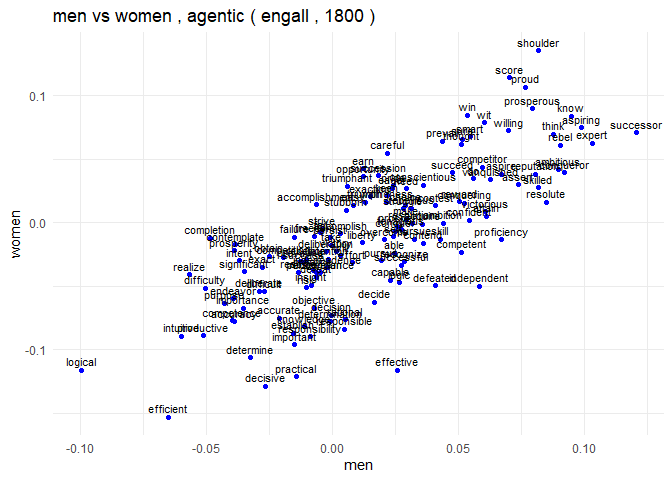
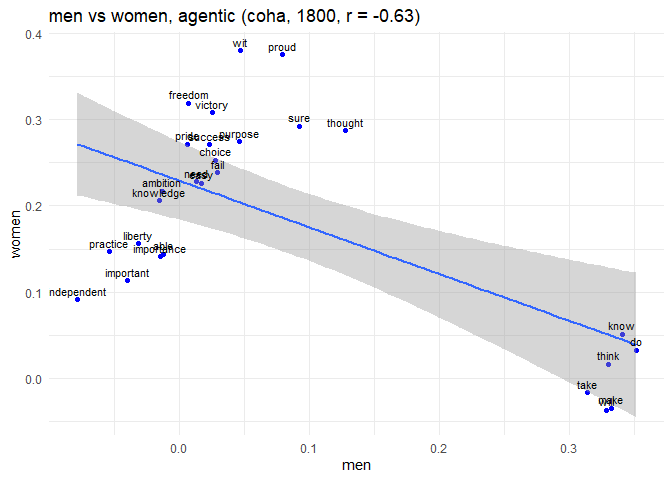
available words analysis

diff --git a/histembeddingsGender.md b/histembeddingsGender.md
@@ -8,40 +8,48 @@ December 3, 2024
 ## Set WD to word stimuli
 setwd("wordstim")
 
-# Specific group examples and new lists
+# Function to read and process lists
+read_list <- function(file, col_name) {
+  list_data <- read.delim(file, header = FALSE)
+  colnames(list_data) <- col_name
+  return(as.vector(list_data[[col_name]]))
+}
+
+# Specific groups (men, women)
 groupwrds <- read.csv("groupstimlists.csv", header = FALSE)
 groupwrds <- as.data.frame(t(groupwrds))
 colnames(groupwrds) <- as.character(groupwrds[1, ])
 groupwrds <- groupwrds[-1, ]
 
-## List of traits
-agenticlist <- read.delim("agentic.txt", header = FALSE)
-colnames(agenticlist) <- "agentic"
-agentic <- as.vector(agenticlist$agentic)
+# Read lists using the function
+agentic <- read_list("agentic.txt", "agentic")
+communal <- read_list("communal.txt", "communal")
+trait <- read_list("traitlist.txt", "trait")
+job <- read_list("joblist.txt", "job")
 
-## List of jobs
-communallist <- read.delim("communal.txt", header = FALSE)
-colnames(communallist) <- "communal"
-communal <- as.vector(communallist$communal)
-
-## List of traits
-traitlist <- read.delim("traitlist.txt", header = FALSE)
-colnames(traitlist) <- "trait"
-trait <- as.vector(traitlist$trait)
-
-## List of traits
-joblist <- read.delim("joblist.txt", header = FALSE)
-colnames(joblist) <- "job"
-job <- as.vector(joblist$job)
+print(head(agentic))
 ```
+
+    ## [1] "able"           "accomplish"     "accomplishment" "accuracy"      
+    ## [5] "accurate"       "achieve"
 
 ``` r
-plot_one_decade(get_decade("men", "women", "agentic", "engall", 1800))
+print(groupwrds$men)
 ```
 
-    ## Warning: Removed 57 rows containing missing values (`geom_point()`).
+    ##  [1] "men"         "man"         "male"        "males"       "masculine"  
+    ##  [6] "masculinity" "he"          "him"         "his"         "himself"    
+    ## [11] "mr"          "mister"      "boy"         "boys"        "guy"        
+    ## [16] "guys"        "fella"       "fellas"      "gent"        "gents"      
+    ## [21] "sir"         "sirs"        "bloke"       "blokes"      "gentleman"  
+    ## [26] "gentlemen"   "lad"         "lads"        "prince"      "princes"    
+    ## [31] "manly"       "king"        "kings"       ""            ""
 
-    ## Warning: Removed 57 rows containing missing values (`geom_text()`).
+``` r
+plot_one_decade(get_decade("men", "women", "agentic", "coha", 1800))
+```
+
+    ## `geom_smooth()` using formula = 'y ~ x'
 
 ![](histembeddingsGender_files/figure-gfm/plottingDecade-1.png)<!-- -->
 
@@ -49,9 +57,7 @@ plot_one_decade(get_decade("men", "women", "agentic", "engall", 1800))
 plot_one_decade(get_decade("men", "women", "agentic", "engall", 1990))
 ```
 
-    ## Warning: Removed 1 rows containing missing values (`geom_point()`).
-
-    ## Warning: Removed 1 rows containing missing values (`geom_text()`).
+    ## `geom_smooth()` using formula = 'y ~ x'
 
 ![](histembeddingsGender_files/figure-gfm/plottingDecade-2.png)<!-- -->
 
@@ -59,15 +65,15 @@ plot_one_decade(get_decade("men", "women", "agentic", "engall", 1990))
 plot_one_decade(get_decade("men", "women", "communal", "engall", 1800))
 ```
 
-    ## Warning: Removed 93 rows containing missing values (`geom_point()`).
-
-    ## Warning: Removed 93 rows containing missing values (`geom_text()`).
+    ## `geom_smooth()` using formula = 'y ~ x'
 
 ![](histembeddingsGender_files/figure-gfm/plottingDecade-3.png)<!-- -->
 
 ``` r
 plot_one_decade(get_decade("men", "women", "communal", "engall", 1990))
 ```
+
+    ## `geom_smooth()` using formula = 'y ~ x'
 
 ![](histembeddingsGender_files/figure-gfm/plottingDecade-4.png)<!-- -->
 
@@ -326,48 +332,69 @@ colnames(results_df) <- c(
 print(results_df)
 ```
 
-    ##    year agentic_coha_men agentic_coha_women agentic_engall_men agentic_engall_women communal_coha_men
-    ## 1  1800      0.084520244       0.1834998786        0.017776823         -0.010094393        0.06831522
-    ## 2  1810      0.036986220       0.0403678799        0.013167537         -0.003991037        0.07094547
-    ## 3  1820      0.017284895      -0.0044068025        0.004411563         -0.013642225        0.04259423
-    ## 4  1830      0.001474853       0.0003878655        0.008945463         -0.010915581        0.02332175
-    ## 5  1840      0.018157545      -0.0073481485        0.003948094         -0.018247837        0.03831833
-    ## 6  1850      0.001449928      -0.0022702158        0.011462237         -0.006627975        0.02434804
-    ## 7  1860      0.022906022      -0.0126401864        0.012631418         -0.012494853        0.04691636
-    ## 8  1870      0.023492385      -0.0030534677        0.014424021         -0.010645491        0.04825870
-    ## 9  1880      0.029276455      -0.0018925372        0.015541094         -0.009744451        0.05070012
-    ## 10 1890      0.045164065       0.0407958010        0.011824326         -0.006846959        0.06307972
-    ## 11 1900      0.047460166       0.0449100188        0.016932356         -0.010041242        0.06972313
-    ## 12 1910      0.048764028       0.0311070938        0.011144014         -0.006272388        0.07639868
-    ## 13 1920      0.050883157       0.0409740162        0.011922415         -0.011133050        0.07874893
-    ## 14 1930      0.055722354       0.0549758360        0.010657838         -0.010304977        0.07841097
-    ## 15 1940      0.041074543       0.0371632802        0.016404601         -0.008795346        0.06771565
-    ## 16 1950      0.040904315       0.0533711343        0.016927671         -0.004900174        0.06910422
-    ## 17 1960      0.069172537       0.0595801712        0.020153685         -0.003272957        0.08933305
-    ## 18 1970      0.077888404       0.0734545124        0.024377910          0.002779682        0.09297614
-    ## 19 1980      0.065539308       0.0927835596        0.022926163          0.004748982        0.09342222
-    ## 20 1990      0.113000601       0.0928455471        0.023448633          0.002629157        0.12533895
-    ##    communal_coha_women communal_engall_men communal_engall_women
-    ## 1           0.26509634          0.04729696            0.05682278
-    ## 2           0.09461830          0.02876524            0.03346980
-    ## 3           0.04840895          0.02134274            0.02548101
-    ## 4           0.04915821          0.02214370            0.02463863
-    ## 5           0.04037932          0.02298446            0.02271996
-    ## 6           0.04714489          0.02781557            0.02731800
-    ## 7           0.03207279          0.02489244            0.02648915
-    ## 8           0.04226237          0.02409834            0.02796862
-    ## 9           0.04076931          0.02816929            0.02923253
-    ## 10          0.08085304          0.02495898            0.02713827
-    ## 11          0.07941852          0.03273924            0.02679150
-    ## 12          0.06525074          0.02976279            0.02946129
-    ## 13          0.08073349          0.03008241            0.02647452
-    ## 14          0.08899034          0.03188849            0.02503512
-    ## 15          0.07719392          0.03777427            0.03147545
-    ## 16          0.09609614          0.03789944            0.03419810
-    ## 17          0.09344271          0.04470092            0.03630398
-    ## 18          0.09949782          0.04489457            0.03850274
-    ## 19          0.13549703          0.04334782            0.03667643
-    ## 20          0.11913105          0.03927364            0.03128763
+    ##    year agentic_coha_men agentic_coha_women agentic_engall_men
+    ## 1  1800      0.084520244       0.1834998786        0.017776823
+    ## 2  1810      0.036986220       0.0403678799        0.013167537
+    ## 3  1820      0.017284895      -0.0044068025        0.004411563
+    ## 4  1830      0.001474853       0.0003878655        0.008945463
+    ## 5  1840      0.018157545      -0.0073481485        0.003948094
+    ## 6  1850      0.001449928      -0.0022702158        0.011462237
+    ## 7  1860      0.022906022      -0.0126401864        0.012631418
+    ## 8  1870      0.023492385      -0.0030534677        0.014424021
+    ## 9  1880      0.029276455      -0.0018925372        0.015541094
+    ## 10 1890      0.045164065       0.0407958010        0.011824326
+    ## 11 1900      0.047460166       0.0449100188        0.016932356
+    ## 12 1910      0.048764028       0.0311070938        0.011144014
+    ## 13 1920      0.050883157       0.0409740162        0.011922415
+    ## 14 1930      0.055722354       0.0549758360        0.010657838
+    ## 15 1940      0.041074543       0.0371632802        0.016404601
+    ## 16 1950      0.040904315       0.0533711343        0.016927671
+    ## 17 1960      0.069172537       0.0595801712        0.020153685
+    ## 18 1970      0.077888404       0.0734545124        0.024377910
+    ## 19 1980      0.065539308       0.0927835596        0.022926163
+    ## 20 1990      0.113000601       0.0928455471        0.023448633
+    ##    agentic_engall_women communal_coha_men communal_coha_women
+    ## 1          -0.010094393        0.06831522          0.26509634
+    ## 2          -0.003991037        0.07094547          0.09461830
+    ## 3          -0.013642225        0.04259423          0.04840895
+    ## 4          -0.010915581        0.02332175          0.04915821
+    ## 5          -0.018247837        0.03831833          0.04037932
+    ## 6          -0.006627975        0.02434804          0.04714489
+    ## 7          -0.012494853        0.04691636          0.03207279
+    ## 8          -0.010645491        0.04825870          0.04226237
+    ## 9          -0.009744451        0.05070012          0.04076931
+    ## 10         -0.006846959        0.06307972          0.08085304
+    ## 11         -0.010041242        0.06972313          0.07941852
+    ## 12         -0.006272388        0.07639868          0.06525074
+    ## 13         -0.011133050        0.07874893          0.08073349
+    ## 14         -0.010304977        0.07841097          0.08899034
+    ## 15         -0.008795346        0.06771565          0.07719392
+    ## 16         -0.004900174        0.06910422          0.09609614
+    ## 17         -0.003272957        0.08933305          0.09344271
+    ## 18          0.002779682        0.09297614          0.09949782
+    ## 19          0.004748982        0.09342222          0.13549703
+    ## 20          0.002629157        0.12533895          0.11913105
+    ##    communal_engall_men communal_engall_women
+    ## 1           0.04729696            0.05682278
+    ## 2           0.02876524            0.03346980
+    ## 3           0.02134274            0.02548101
+    ## 4           0.02214370            0.02463863
+    ## 5           0.02298446            0.02271996
+    ## 6           0.02781557            0.02731800
+    ## 7           0.02489244            0.02648915
+    ## 8           0.02409834            0.02796862
+    ## 9           0.02816929            0.02923253
+    ## 10          0.02495898            0.02713827
+    ## 11          0.03273924            0.02679150
+    ## 12          0.02976279            0.02946129
+    ## 13          0.03008241            0.02647452
+    ## 14          0.03188849            0.02503512
+    ## 15          0.03777427            0.03147545
+    ## 16          0.03789944            0.03419810
+    ## 17          0.04470092            0.03630398
+    ## 18          0.04489457            0.03850274
+    ## 19          0.04334782            0.03667643
+    ## 20          0.03927364            0.03128763
 
 ``` r
 ggplot(results_df, aes(x = year)) +
@@ -424,6 +451,10 @@ plot_multiple_ts(human_nonhuman_ts)
 plot_one_decade(get_decade("nonhuman", "women", "trait", "engall", 1990))
 ```
 
+    ## `geom_smooth()` using formula = 'y ~ x'
+
+    ## Warning: Removed 17 rows containing non-finite values (`stat_smooth()`).
+
     ## Warning: Removed 17 rows containing missing values (`geom_point()`).
 
     ## Warning: Removed 17 rows containing missing values (`geom_text()`).
@@ -450,7 +481,7 @@ plot_multiple_ts(men_women_trait_job_ts)
 ![](histembeddingsGender_files/figure-gfm/plottingTsMenWomen-3.png)<!-- -->
 
 ``` r
-men_women_trait_job_ts<-list(get_ts("men", "women", "agentic", "coha"), get_ts("men", "women", "communal", "coha"), get_ts("men", "women", "agentic", "engall"),get_ts("men", "women", "communal", "engall"))
+men_women_trait_job_ts<-list(get_ts("men", "women", "agentic", "coha"),get_ts("men", "women", "communal", "coha"), get_ts("men", "women", "agentic", "engall"),get_ts("men", "women", "communal", "engall"))
 plot_multiple_ts(men_women_trait_job_ts)
 ```
 
